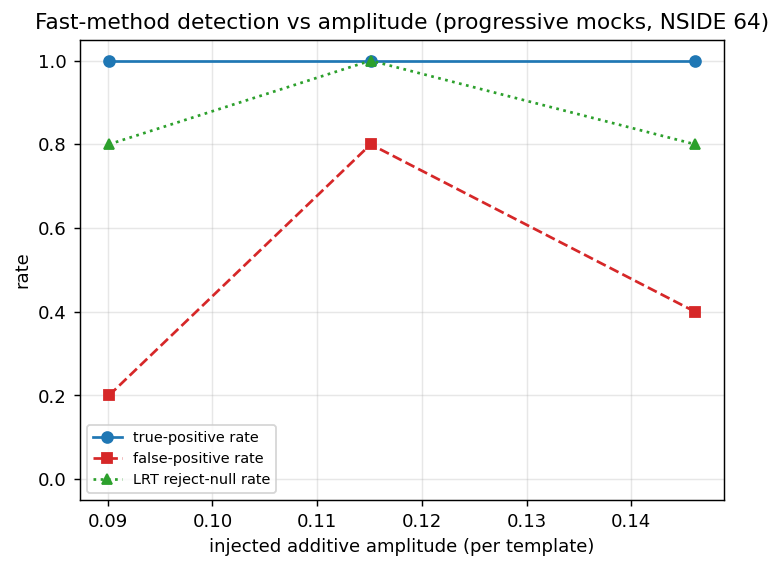
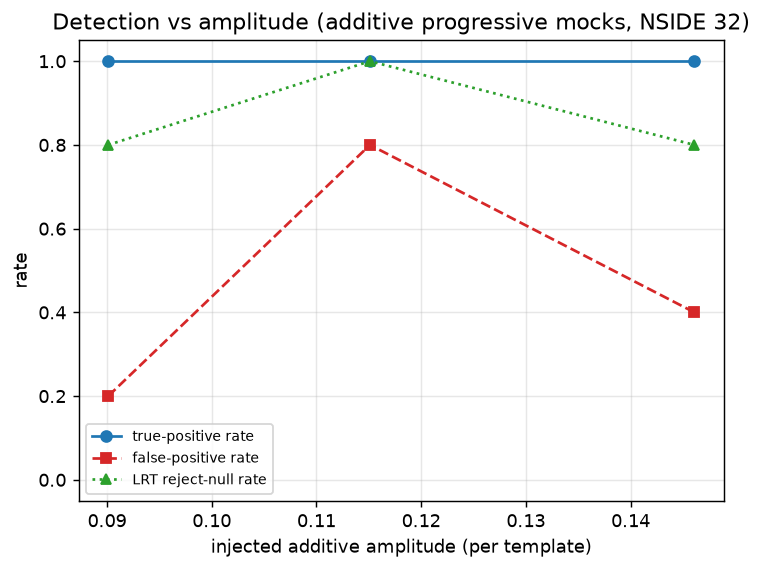
detectability_law: fig6 names the resolution of the progressive mocks
The title said NSIDE 64, the script's own --nside default, but
progressive_results.csv comes from the NSIDE 32 run of
run_mock_analysis_progressive.py and does not record its resolution.  The
title now reads PROG_NSIDE = 32 and says what is plotted.

diff --git a/scripts/analyze_detectability_law.py b/scripts/analyze_detectability_law.py
@@ -50,6 +50,9 @@ SYSW = REPO / "data" / "sys_weights"
 # significance calibrated against matched GLASS realisations.
 SYSW_CAL = REPO / "data" / "sys_weights_auto"
 PROG = REPO / "docs" / "_static" / "results_progressive_contamination" / "progressive_results.csv"
+# NSIDE of the progressive mocks (run_mock_analysis_progressive.py --nside 32); the CSV
+# does not record it.
+PROG_NSIDE = 32
 
 FIDUCIAL = "10.0"  # log M* threshold of the fiducial LS10 sample
 NU_LEVELS = (3.0, 5.0)
@@ -284,7 +287,7 @@ def fig_detection_vs_amp(prog):
         ax.set_xlabel("injected additive amplitude (per template)")
     ax.set_ylabel("rate")
     ax.set_ylim(-0.05, 1.05)
-    ax.set_title("Fast-method detection vs amplitude (progressive mocks, NSIDE 64)")
+    ax.set_title(f"Detection vs amplitude (additive progressive mocks, NSIDE {PROG_NSIDE})")
     ax.legend(fontsize=8); ax.grid(alpha=.3)
     return _save(fig, "fig6_detection_vs_amplitude.png")
 
